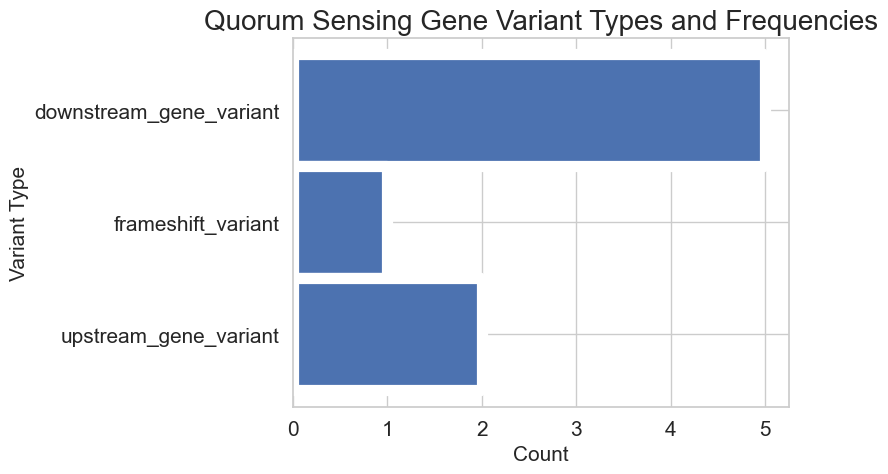
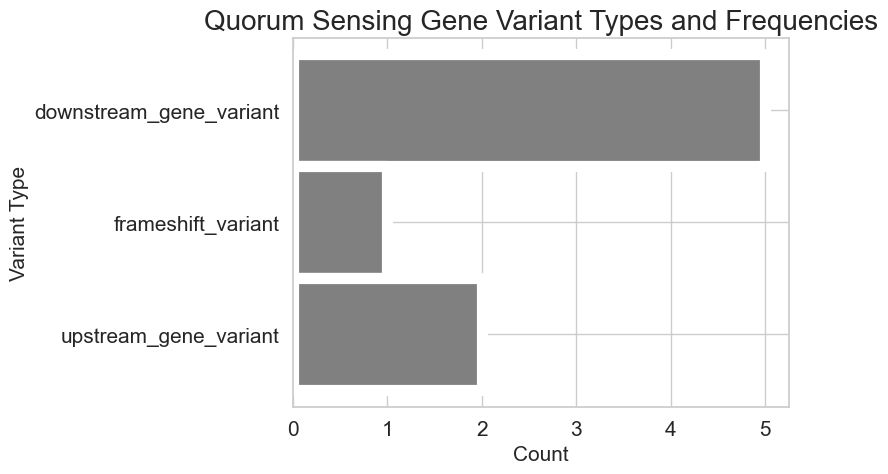
change output graphs to grey

Changed region(s): [[0.3345, 0.1181, 0.8818, 0.827]]

diff --git a/parse_variants.py b/parse_variants.py
@@ -76,7 +76,7 @@ def get_qs_variants(variants, qs_genes, prefix):
 def plot_var_counts(variant_counts, prefix):
     """Prints a bar plot of variant counts to a file."""
     outfile = prefix + ".variant_types.png"
-    bp = sns.barplot(y=variant_counts["type"], x=variant_counts["count"])
+    bp = sns.barplot(y=variant_counts["type"], x=variant_counts["count"], color="grey")
     bp.set(xscale="log")
     bp.set_xlabel(xlabel="Count", fontsize=15)
     bp.set_ylabel(ylabel="Variant Type", fontsize=15)
@@ -91,7 +91,7 @@ def plot_qs_variants(qs_variants, prefix):
     """Prints a histogram of variant types in quorum sensing genes."""
     outfile = prefix + ".qs_variants.png"
     qs_var_df = pd.DataFrame(qs_variants, columns=["mutation_type"])
-    qs = sns.histplot(qs_var_df, y="mutation_type", alpha=1)
+    qs = sns.histplot(qs_var_df, y="mutation_type", alpha=1, color="grey")
     qs.set_title("Quorum Sensing Gene Variant Types and Frequencies", fontsize=20)
     qs.set_xlabel("Count", fontsize=15)
     qs.set_ylabel("Variant Type", fontsize=15)
